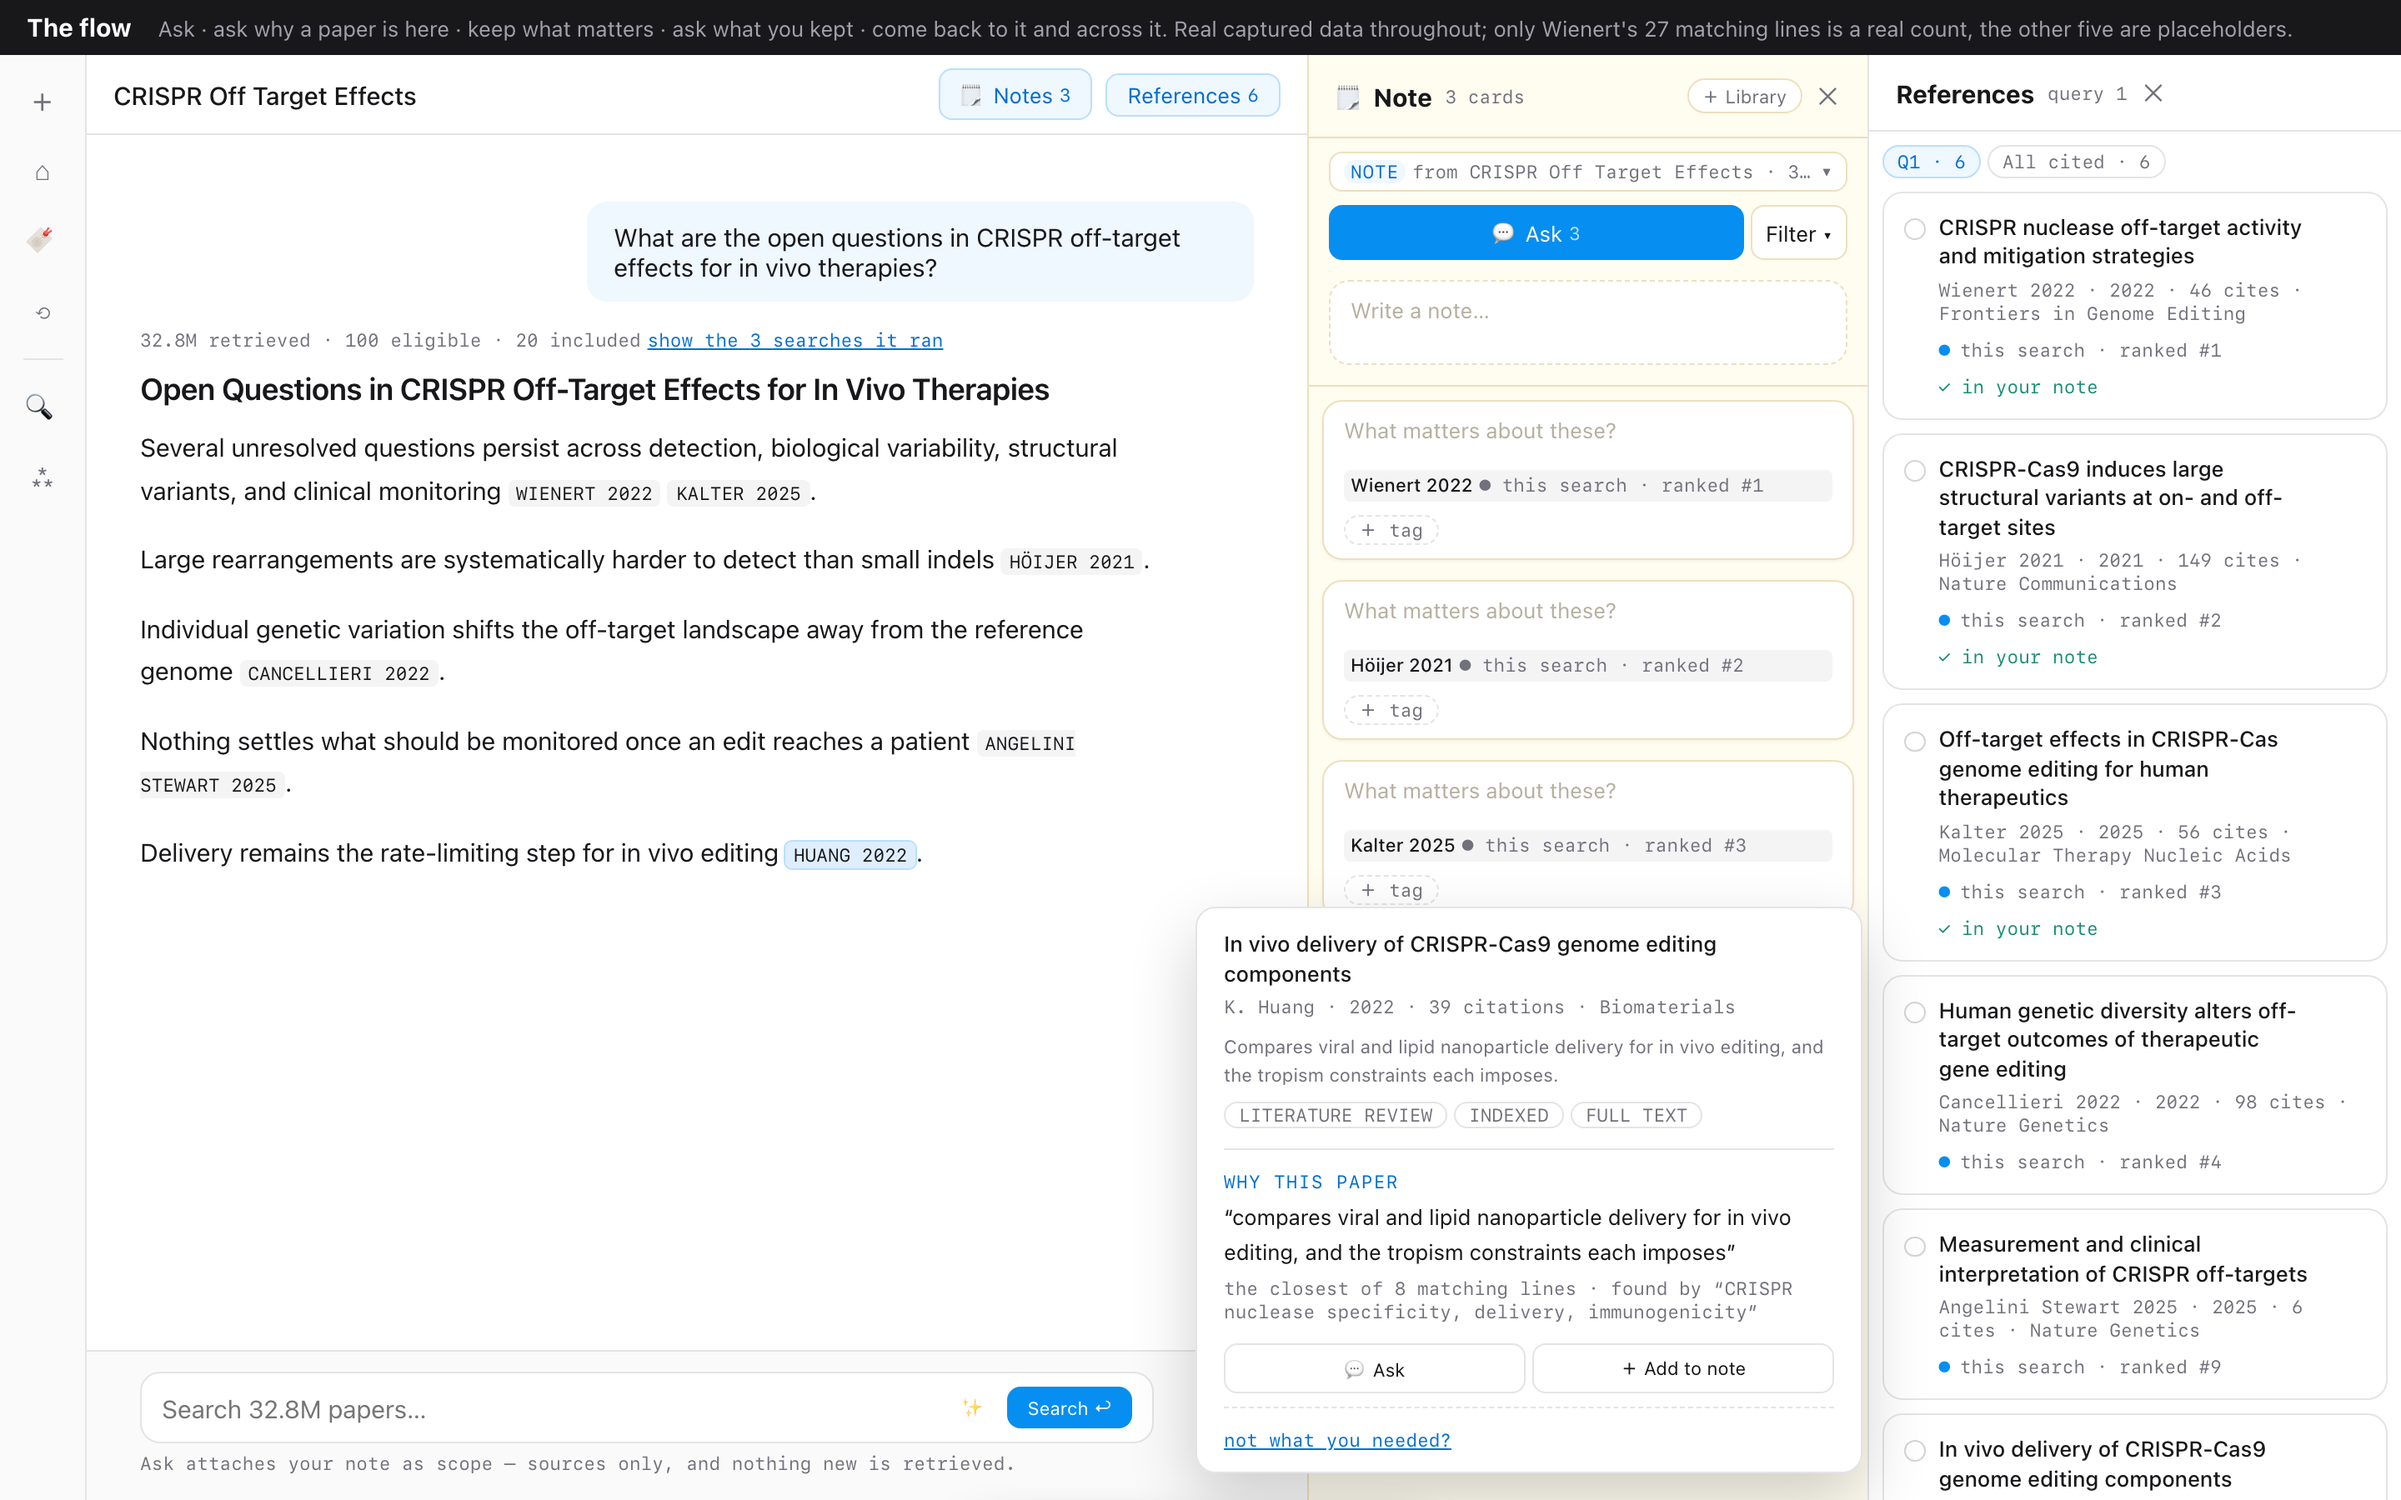
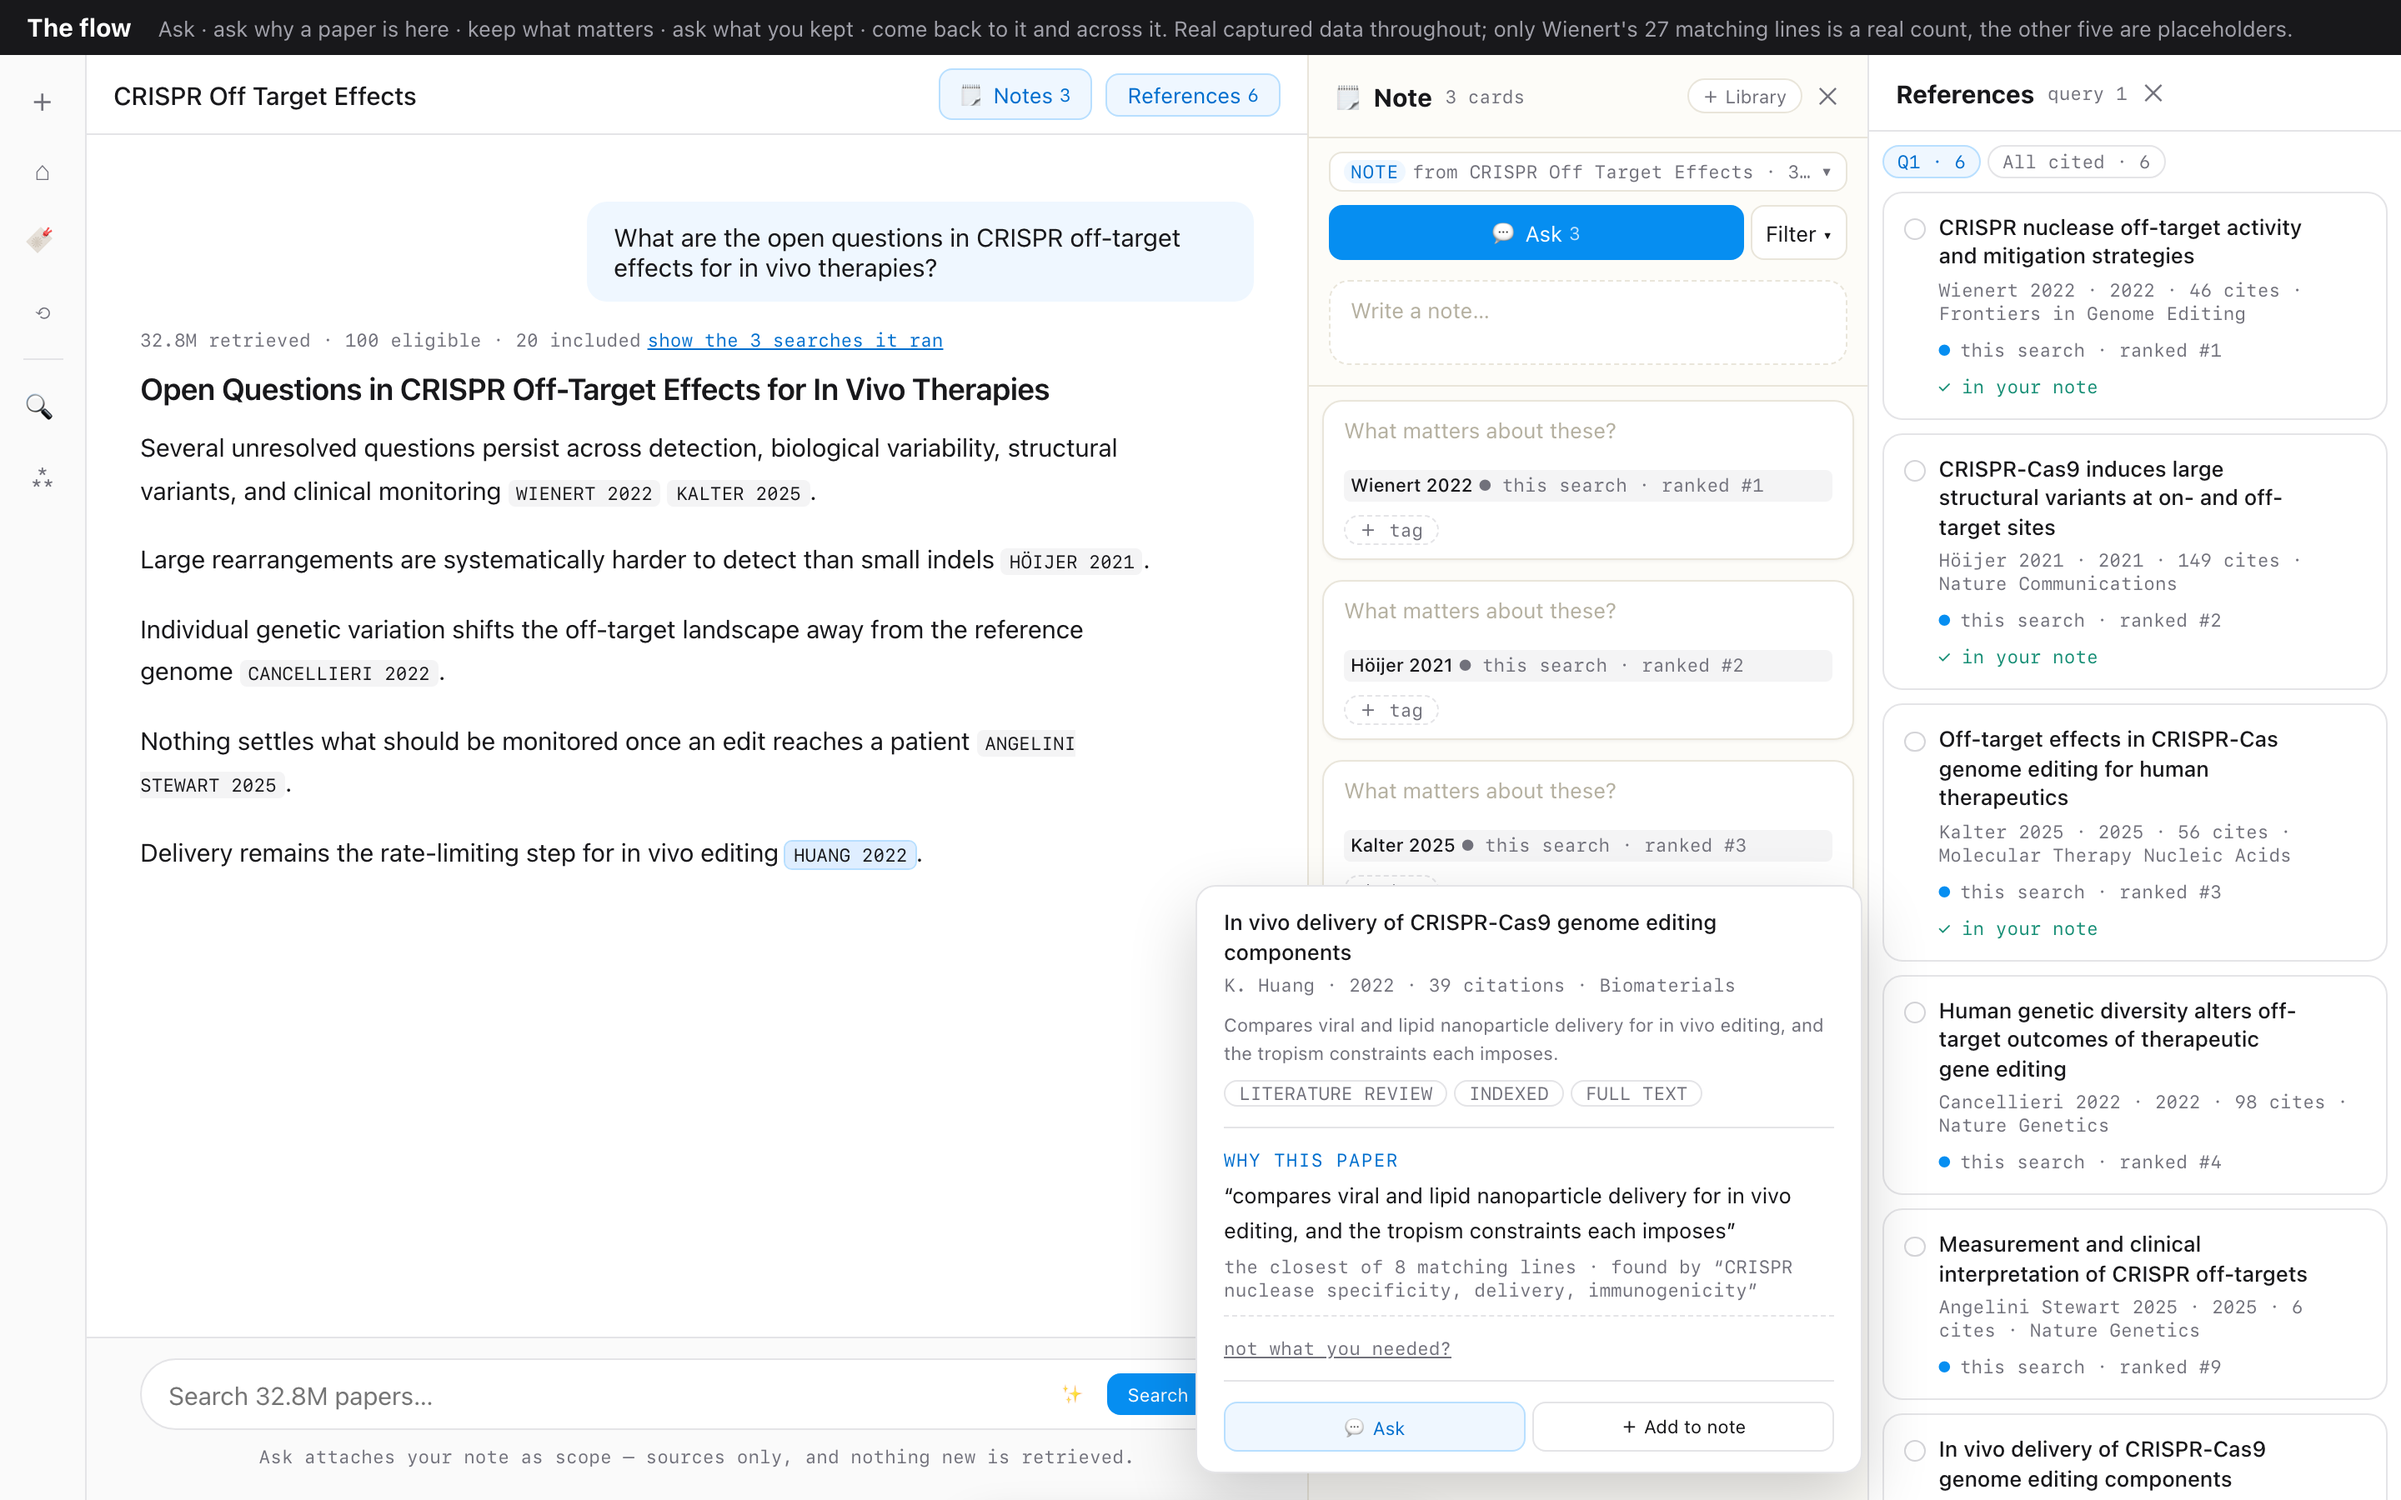
Quieter paper, wider composer, actions at the foot
Five adjustments, mostly about where attention goes.

The note surface was a highlight rather than a material. #fffcf0 against white
reads as "look here", which is wrong for a panel that is open most of the time.
It is now #fdfcf8 with a correspondingly quieter border — still a different
surface from the thread, no longer competing with it.

The composer fills its column and rounds to a pill, with the hint centred under
it, so it reads as the product's search rather than a form field parked on the
left.

The hover card's actions move to its foot, under a rule. They were sitting
between the explanation and the way out, which put a decision in the middle of
a sentence. Explanation, then recourse, then what you can do about it.

Typing a new tag now commits on Enter. Reaching for the mouse to confirm a word
you have just finished typing is the wrong end of the interaction; an exact
match toggles, anything else is created.

And landing in the chat from a comparison opens onto a blank note. Before, the
panel would silently show one of the two notes that had just been attached, and
there was no way to tell which — the two are the question's scope, not the place
you are writing. A fresh note has no count, which is itself the signal.

51 assertions. Three new: that the active note after a comparison is empty, that
its header shows no count, and that the switcher lists all three notes.

Claude-Session: https://claude.ai/code/session_01NWtFYS7oanXXxkpZBLbEsj

Changed region(s): [[0.5, 0.5911, 0.75, 0.9644], [0.0625, 0.9022, 0.4062, 0.9956], [0.4062, 0.9022, 0.5, 0.9644]]

diff --git a/prototypes/flow.html b/prototypes/flow.html
@@ -8,7 +8,7 @@
 --accent:#068ef1;--accent-emph:#006fce;--accent-muted:#dfeeff;--accent-subtle:#eff7ff;--accent-bd:#b8dfff;
 --bg:#fff;--mist:#fafafa;--faint:#f4f4f5;--subtle:#e4e4e7;
 --fg:#18181b;--muted:#71717b;--bd:#e4e4e7;--bd-emph:#d4d4d8;
---pos:#148d74;--pos-bg:#eefaf6;--warn:#a65f00;--warn-bg:#fdf6e7;--paper:#fffcf0;--paper-bd:#ece0bd;
+--pos:#148d74;--pos-bg:#eefaf6;--warn:#a65f00;--warn-bg:#fdf6e7;--paper:#fdfcf8;--paper-bd:#e9e5da;
 --r-xs:.25rem;--r-sm:.5rem;--r-md:.75rem;--r-lg:1rem;
 --s-2xs:.25rem;--s-xs:.5rem;--s-sm:.75rem;--s-md:1rem;--s-lg:1.25rem;--s-xl:1.5rem;--s-2xl:2rem;--s-3xl:2.5rem;
 --t-2xs:.69rem;--t-xs:.81rem;--t-sm:.94rem;--t-base:1rem;--t-lg:1.13rem;--h-md:1.6rem;
@@ -65,8 +65,9 @@ body{font-family:var(--sans);color:var(--fg);background:var(--bg);font-size:var(
 .thinking i{width:5px;height:5px;border-radius:625rem;background:var(--accent);display:inline-block;animation:pulse 1s infinite}
 .thinking i:nth-child(2){animation-delay:.16s}.thinking i:nth-child(3){animation-delay:.32s}
 @keyframes pulse{0%,100%{opacity:.25}50%{opacity:1}}
-.ask{border-top:1px solid var(--bd);padding:var(--s-sm) var(--s-2xl);background:var(--mist);flex:none}
-.ask .box{background:var(--bg);border:1px solid var(--bd);border-radius:var(--r-md);padding:var(--s-xs) var(--s-sm);max-width:38rem}
+.ask{border-top:1px solid var(--bd);padding:var(--s-sm) var(--s-2xl) var(--s-md);background:var(--mist);flex:none}
+.askwrap{max-width:46rem;margin:0 auto}
+.ask .box{background:var(--bg);border:1px solid var(--bd);border-radius:625rem;padding:var(--s-xs) var(--s-sm) var(--s-xs) var(--s-md)}
 .ask.scoped .box{border-color:var(--accent-bd);box-shadow:0 0 0 3px var(--accent-subtle)}
 .attachrow{display:none;align-items:center;gap:var(--s-xs);flex-wrap:wrap;margin-bottom:var(--s-xs)}
 .ask.scoped .attachrow{display:flex}
@@ -85,7 +86,7 @@ body{font-family:var(--sans);color:var(--fg);background:var(--bg);font-size:var(
 .blank b{font-size:var(--t-lg);color:var(--fg);font-weight:600;letter-spacing:-.01em}
 .blank span{font-family:var(--mono);font-size:var(--t-2xs);line-height:1.8}
 .send:hover{background:var(--accent-emph)}
-.hintline{font-family:var(--mono);font-size:var(--t-2xs);color:var(--muted);margin-top:var(--s-2xs);max-width:40rem;line-height:1.6}
+.hintline{font-family:var(--mono);font-size:var(--t-2xs);color:var(--muted);margin-top:var(--s-xs);line-height:1.6;text-align:center}
 
 .pane{display:flex;flex-direction:column;min-height:0;overflow:hidden;position:relative;border-left:1px solid var(--bd)}
 .pane-hd{padding:var(--s-sm) var(--s-md);border-bottom:1px solid var(--bd);flex:none;display:flex;align-items:center;gap:var(--s-xs)}
@@ -223,8 +224,8 @@ body.dragging #notesPane{background:#fffdf5;box-shadow:inset 0 0 0 2px var(--acc
 .why .k{font-family:var(--mono);font-size:var(--t-2xs);color:var(--accent-emph);letter-spacing:.06em;display:block}
 .why q{display:block;font-size:var(--t-xs);line-height:1.6;margin-top:var(--s-2xs);font-style:normal}
 .why .tagline{font-family:var(--mono);font-size:var(--t-2xs);color:var(--muted);display:block;margin-top:var(--s-2xs)}
-/* the two things you actually do to a paper you have just been shown */
-.rowacts{display:flex;gap:var(--s-2xs);margin-top:var(--s-sm)}
+/* the two things you actually do to a paper, at the foot of the card */
+.rowacts{display:flex;gap:var(--s-2xs);margin-top:var(--s-sm);border-top:1px solid var(--bd);padding-top:var(--s-sm)}
 .mini{font-family:inherit;font-size:var(--t-2xs);border:1px solid var(--bd);background:#fff;color:var(--fg);
   border-radius:var(--r-sm);padding:5px var(--s-xs);cursor:pointer;flex:1}
 .mini:hover{border-color:var(--accent-bd);color:var(--accent-emph);background:var(--accent-subtle)}
@@ -369,6 +370,7 @@ body.dragging #notesPane{background:#fffdf5;box-shadow:inset 0 0 0 2px var(--acc
           <button class="tgl on" id="tRefs">References <span class="n" id="trCount">6</span></button></div>
         <main class="thread" id="thread"></main>
         <div class="ask" id="ask">
+          <div class="askwrap">
           <div class="box">
             <div class="attachrow"><span class="attach"><span id="attLab"></span><span class="x" id="attX">✕</span></span></div>
             <div class="line"><input placeholder="Search 32.8M papers…" id="askInput">
@@ -376,6 +378,7 @@ body.dragging #notesPane{background:#fffdf5;box-shadow:inset 0 0 0 2px var(--acc
               <button class="send" id="sendBtn">Search ↩</button></div>
           </div>
           <div class="hintline" id="hint"></div>
+          </div>
         </div>
       </div>
 
@@ -745,10 +748,10 @@ function showWhy(i,el,side){
     /* the explanation is the paper's own words, so it cannot be wrong about itself */
     '<div class="why"><span class="k">WHY THIS PAPER</span><q>'+esc(p.passage)+'</q>'+
     '<span class="tagline">the closest of '+p.q+' matching lines · found by “'+esc(SUBQ[p.sub].s)+'”</span></div>'+
-    '<div class="rowacts"><button class="mini" id="whyAsk">💬 Ask</button>'+
-    '<button class="mini" id="whyKeep">＋ Add to note</button></div>'+
     '<div class="miss"><button class="open" id="missBtn">not what you needed?</button>'+
-    '<div class="goals" id="goals"></div><div class="sug" id="sug"></div></div>';
+    '<div class="goals" id="goals"></div><div class="sug" id="sug"></div></div>'+
+    '<div class="rowacts"><button class="mini" id="whyAsk">💬 Ask</button>'+
+    '<button class="mini" id="whyKeep">＋ Add to note</button></div>';
   $('whyAsk').addEventListener('click',()=>{hideWhy(true);attach(1,[i],P[i].n)});
   $('whyKeep').addEventListener('click',()=>{hideWhy(true);dropSources([i],null)});
   const g=$('goals');
@@ -1054,7 +1057,18 @@ function openTagPop(btn,card){
   const n=document.createElement('div');
   pop.append(i,l,sep,n); pop._i=i; pop._l=l; pop._n=n;
   i.addEventListener('input',draw);
-  i.addEventListener('keydown',e=>{e.stopPropagation();if(e.key==='Escape')pop.classList.remove('on')});
+  i.addEventListener('keydown',e=>{
+    e.stopPropagation();
+    if(e.key==='Escape'){pop.classList.remove('on');return}
+    if(e.key!=='Enter') return;
+    e.preventDefault();
+    const v=i.value.trim(); if(!v) return;
+    /* Enter finishes the thought — an exact tag toggles, anything else is new */
+    const hit=TAGS.find(t=>t.toLowerCase()===v.toLowerCase());
+    if(hit){if(!card.tags.includes(hit))card.tags.push(hit)}
+    else{TAGS.push(v);card.tags.push(v)}
+    pop.classList.remove('on'); render(); toast('Tagged “'+(hit||v)+'”');
+  });
   draw(); place(pop,btn); setTimeout(()=>i.focus(),10);
 }
 function place(pop,btn){POPS().forEach(p=>p.classList.remove('on'));
@@ -1218,6 +1232,11 @@ function askNotes(){
   QUERIES=[{q:q,title:'',refs:srcs.map((p,k)=>({p,rank:k+1})),paras:[],
     funnel:'from your notes · nothing retrieved'}];
   activeQ=0; showRefs=true; layout(); renderRefs();
+  /* the two compared notes are attached to the question, not being written into —
+     so the panel opens on a fresh note rather than silently picking one of them */
+  const fresh={id:'n'+(NOTES.length+1),thread:$('threadName').textContent,cards:[],coll:''};
+  NOTES.push(fresh); activeNote=fresh.id; CARDS=fresh.cards; savedTo=null;
+  activeTags.clear(); query=''; render();
   toast('Both notes are attached. Ask anything else and it stays inside them.');
 }
 /* one generator, so the comparison reads the same wherever it lands */
